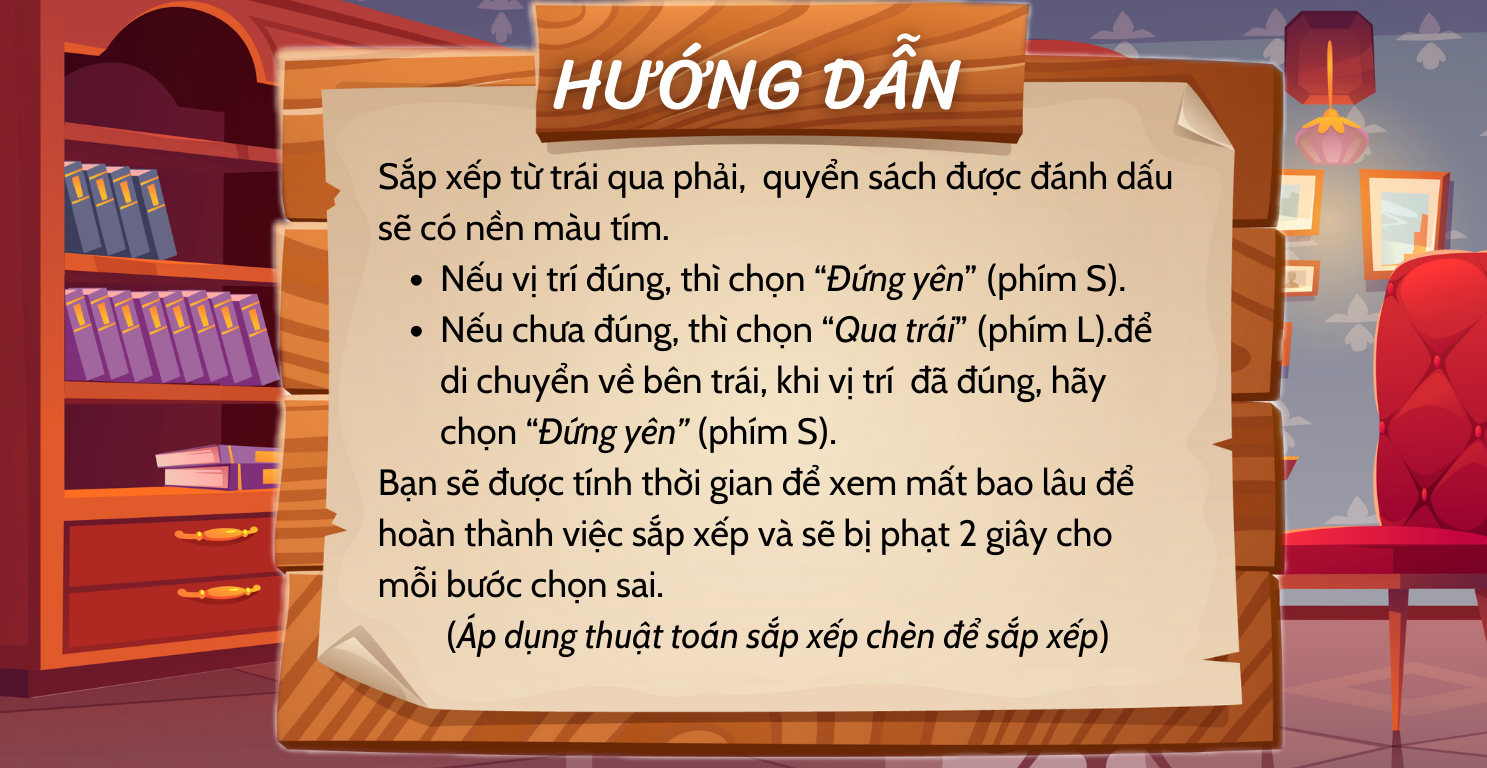
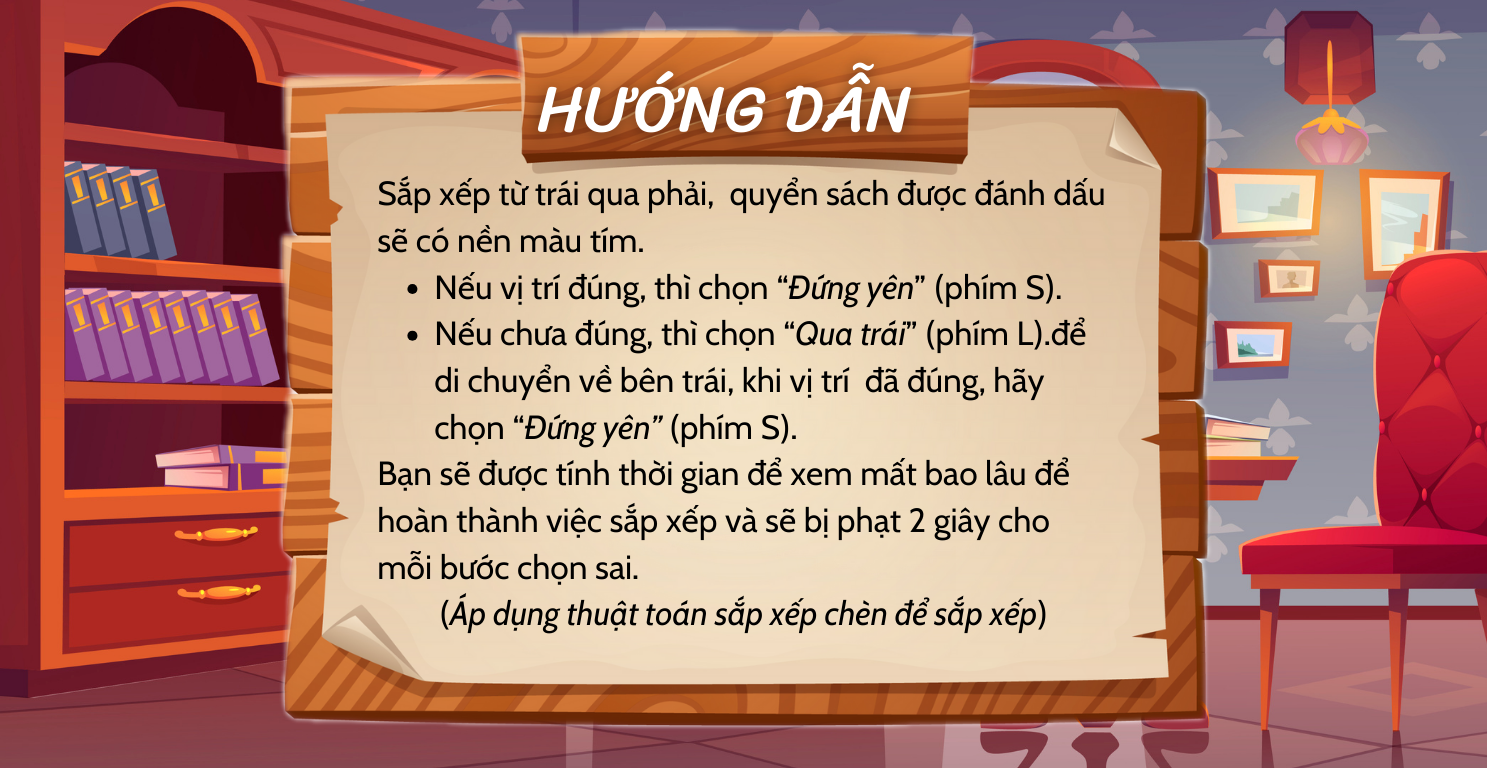
.

diff --git a/js/play.css b/js/play.css
@@ -24,6 +24,7 @@
   max-width: 96%;
     height: 50%;
     
+    
     text-align: center;
 
   
@@ -34,7 +35,7 @@
     width: 80%;
     max-width: 90%;
     
-    height: 315px;
+    height: 310px;
     position: relative;
     display: inline-block;
     vertical-align: middle;
@@ -87,6 +88,7 @@
     max-width: 90%; /* Đặt chiều rộng tối đa */
     margin: 0 auto; /* Căn giữa bằng cách sử dụng margin và giá trị 'auto' */
     text-align: center;
+    
   }
   #time {
     height: 1px;
@@ -112,23 +114,26 @@
     background-size: 100%;
   }
 
- /* Thêm responsive design cho #imageContainer */
+
+  img:hover {
+    transform: scale(0.9); /* Phóng to 110% khi hover */
+    transition: transform 0.3s ease-in-out; /* Thêm hiệu ứng chuyển động */
+  }
+
 #imageContainer {
-  position: absolute;
-  top: 0;
-  left: 0;
-  width: 0; /* Kích thước ban đầu của container */
+  position: relative;
+  top: -400px;
+  left: 0px;
+  width: 0px; /* Kích thước ban đầu của container */
   overflow: hidden;
   transition: width 0.3s ease-in-out;
+}
+
+#imageContainer:hover {
+  width: 900px; /* Kích thước khi rê chuột vào */
 }
 
 #imageContainer img {
   width: 100%;
   height: auto;
-}
-
-/* Thêm responsive design cho hình ảnh khi hover */
-img:hover {
-  transform: scale(0.9); /* Phóng to 110% khi hover */
-  transition: transform 0.3s ease-in-out; /* Thêm hiệu ứng chuyển động */
 }
